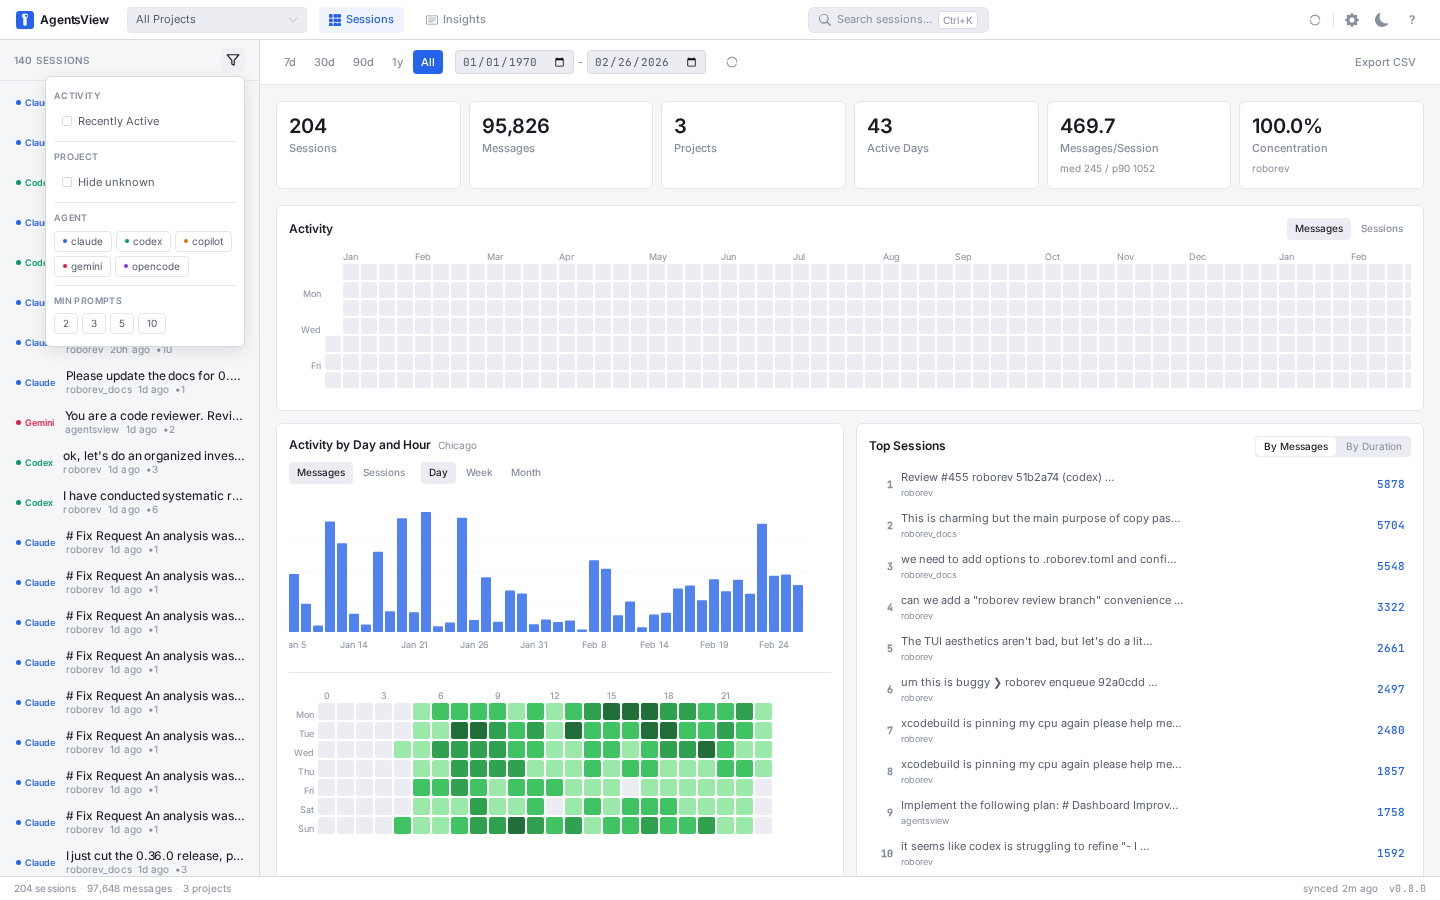
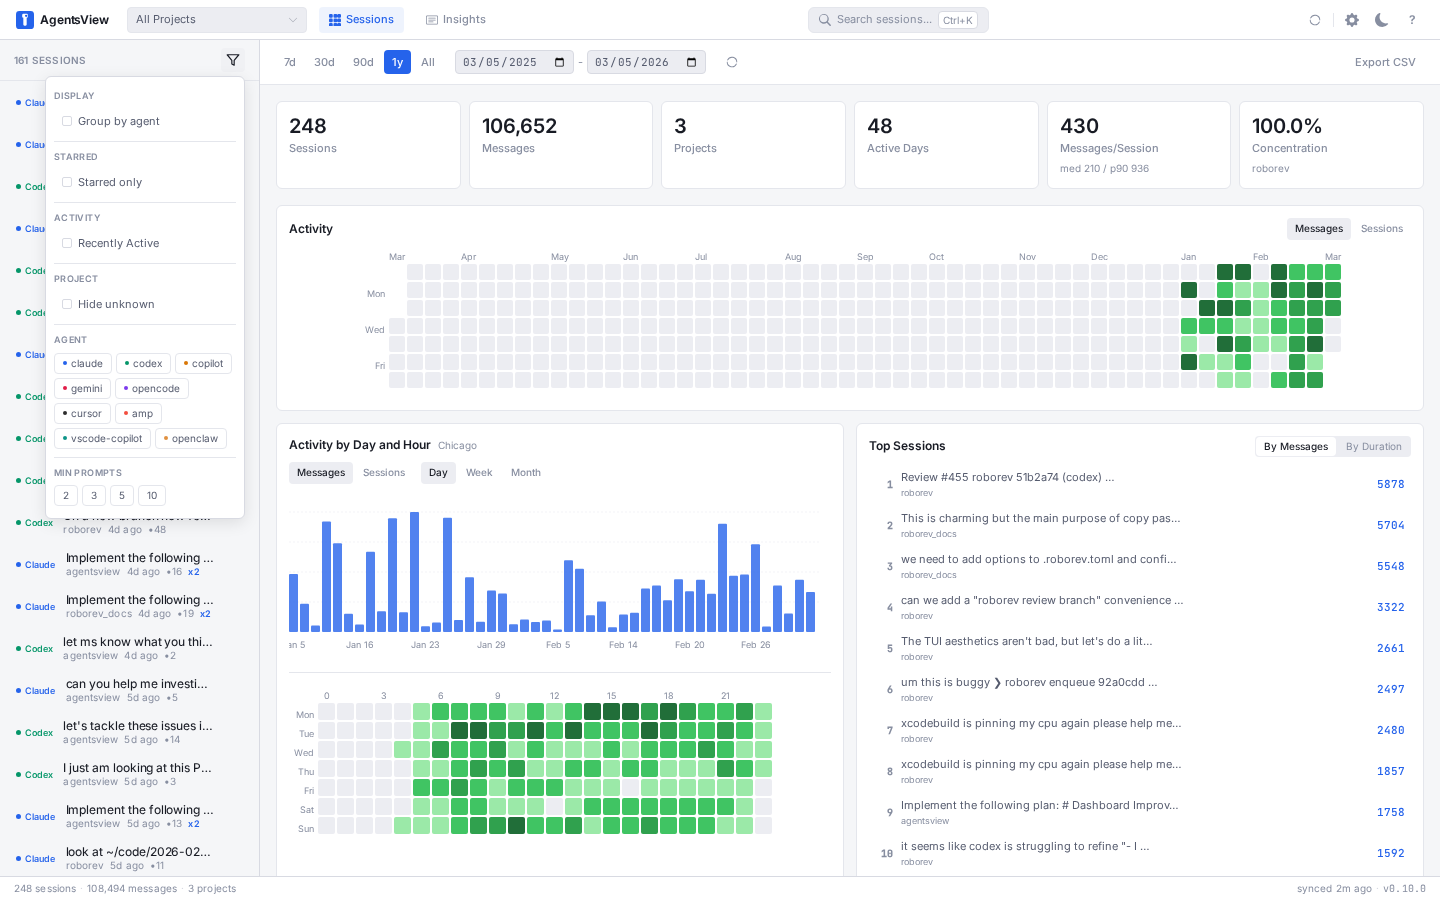
Document 0.10.0: new agents, starring, layouts, block filters (#10)
## Summary

- Add 0.10.0 changelog entry covering 8 new features, 4 improvements,
and 2 bug fixes
- Document Amp, VS Code Copilot, and OpenClaw agent support across all
docs pages (index, quickstart, usage, configuration, commands)
- Document new UI features: session starring, switchable message layouts
(Default/Compact/Stream), collapsible sidebar agent grouping, block-type
filtering, message copy button, inline subagent transcript viewing
- Update keyboard shortcuts table (`l` for layout, `s` for star; remove
`t` for thinking toggle)
- Add `result_content_blocked_categories` config option and
non-destructive resync documentation
- Add placeholder SVG logos for the 3 new agents
- Regenerate all 30 existing screenshots with the 0.10.0 UI
- Add 5 new Playwright screenshot tests (starred session, compact
layout, stream layout, block filter dropdown, copy button)

## Notes

- Tauri desktop app is mentioned in changelog as "in development, not
yet released" — no separate docs page
- Agent logo SVGs are text-based placeholders — replace with proper
brand logos before publishing
- The `group-by-agent` screenshot test passed but didn't capture (button
selector may need adjusting for the actual UI class)

## Test plan

- [ ] Verify docs build cleanly (`npm run build`)
- [ ] Review new screenshots for visual accuracy
- [ ] Check all internal links resolve
- [ ] Verify new agent paths match source code defaults
- [ ] Review changelog entry against actual release notes
[…]

diff --git a/screenshots/tests/screenshots.spec.ts b/screenshots/tests/screenshots.spec.ts
@@ -301,12 +301,13 @@ test.describe('Session browser', () => {
       await filterBtn.click();
       await page.waitForTimeout(300);
 
-      // Enable the "Recently Active" toggle
-      const toggle = page.getByRole('button', {
-        name: 'Recently Active',
+      // Select "Min Prompts 10" filter
+      const minPrompts = page.getByRole('button', {
+        name: '10',
+        exact: true,
       });
-      if (await toggle.count() > 0) {
-        await toggle.click();
+      if (await minPrompts.count() > 0) {
+        await minPrompts.click();
         await page.waitForTimeout(300);
       }
 
@@ -324,6 +325,47 @@ test.describe('Session browser', () => {
       // Clean up
       const clear = page.locator('button.clear-filters-btn');
       if (await clear.count() > 0) await clear.click();
+    }
+  });
+
+  test('starred session', async ({ page }) => {
+    // Star the first session using 's' key
+    await selectFirstSession(page);
+    await page.keyboard.press('s');
+    await page.waitForTimeout(500);
+
+    const sidebar = page.locator('.sidebar');
+    if (await sidebar.count() > 0) {
+      await snapEl(sidebar, 'starred-session');
+    }
+
+    // Unstar to clean up
+    await page.keyboard.press('s');
+  });
+
+  test('group by agent', async ({ page }) => {
+    // Find and click the group-by-agent toggle
+    const groupBtn = page.locator(
+      'button[title*="group"], button[title*="Group"]'
+    );
+    if (await groupBtn.count() > 0) {
+      await groupBtn.click();
+      await page.waitForTimeout(500);
+
+      // Expand the first group
+      const groupHeader = page.locator(
+        '.agent-group-header'
+      ).first();
+      if (await groupHeader.count() > 0) {
+        await groupHeader.click();
+        await page.waitForTimeout(300);
+      }
+
+      const sidebar = page.locator('.sidebar');
+      await snapEl(sidebar, 'group-by-agent');
+
+      // Toggle off to clean up
+      await groupBtn.click();
     }
   });
 });
@@ -414,6 +456,78 @@ test.describe('Message viewer', () => {
           await snapEl(tg, 'tool-groups');
           break;
         }
+      }
+    }
+  });
+
+  test('compact layout', async ({ page }) => {
+    await selectRichSession(page);
+
+    // Press 'l' to cycle to compact layout
+    await page.keyboard.press('l');
+    await page.waitForTimeout(500);
+
+    // Verify we're in compact layout
+    const list = page.locator('.layout-compact');
+    if (await list.count() > 0) {
+      await snap(page, 'layout-compact');
+    }
+
+    // Cycle back to default
+    await page.keyboard.press('l');
+    await page.keyboard.press('l');
+  });
+
+  test('stream layout', async ({ page }) => {
+    await selectRichSession(page);
+
+    // Press 'l' twice to reach stream layout
+    await page.keyboard.press('l');
+    await page.keyboard.press('l');
+    await page.waitForTimeout(500);
+
+    const list = page.locator('.layout-stream');
+    if (await list.count() > 0) {
+      await snap(page, 'layout-stream');
+    }
+
+    // Cycle back to default
+    await page.keyboard.press('l');
+  });
+
+  test('block-type filter dropdown', async ({ page }) => {
+    await selectRichSession(page);
+
+    // Click the block-type filter button
+    const filterBtn = page.locator(
+      'button[title="Filter block types"]'
+    );
+    if (await filterBtn.count() > 0) {
+      await filterBtn.click();
+      await page.waitForTimeout(300);
+
+      const dropdown = page.locator('.block-filter-dropdown');
+      if (await dropdown.count() > 0) {
+        await snapEl(dropdown, 'block-filter');
+      }
+
+      // Close by clicking elsewhere
+      await page.keyboard.press('Escape');
+    }
+  });
+
+  test('copy button on message', async ({ page }) => {
+    await selectRichSession(page);
+
+    // Hover over a message to reveal the copy button
+    const message = page.locator('.message').first();
+    if (await message.count() > 0) {
+      await message.hover();
+      await page.waitForTimeout(300);
+
+      const copyBtn = message.locator('.copy-btn');
+      if (await copyBtn.count() > 0) {
+        await snapEl(message, 'message-copy-btn');
       }
     }
   });

diff --git a/screenshots/README.md b/screenshots/README.md
@@ -1,0 +1,47 @@
+# Screenshot Pipeline
+
+Generates screenshots for the docs site using Playwright inside Docker.
+
+## Prerequisites
+
+- Docker
+- agentsview source at `~/code/agentsview` (override with `AGENTSVIEW_SRC`)
+- A sessions database at `~/.agentsview/sessions.db` (override with `SOURCE_DB`)
+
+## Run all screenshots
+
+```bash
+./screenshots/run.sh
+```
+
+Output goes to `public/screenshots/`.
+
+## Run a single screenshot
+
+Pass `--grep` with the test name:
+
+```bash
+./screenshots/run.sh --grep "session filters active"
+```
+
+Any extra arguments are forwarded to `npx playwright test` inside the container.
+
+## How it works
+
+1. Assembles a Docker build context with the agentsview source, sessions database, and test files
+2. Builds a multi-stage Docker image:
+   - **Stage 1 (builder):** Compiles the agentsview Go binary with frontend assets
+   - **Stage 2 (db):** Extracts a test database with only open-source projects
+   - **Stage 3 (playwright):** Installs Playwright + Chromium, copies binary and DB
+3. Runs the container, which starts agentsview on port 8090, prunes one-shot sessions, and executes the Playwright tests
+4. Screenshots are written to the mounted `/output` volume (`public/screenshots/`)
+
+Stages 1 and 2 are cached by Docker, so re-runs after test file changes are fast.
+
+## Configuration
+
+Viewport: 1440x900, dark mode, `America/Chicago` timezone. See `playwright.config.ts`.
+
+## Test file
+
+All tests live in `tests/screenshots.spec.ts`. Each test navigates to a UI state and calls `snap(page, 'name')` or `snapEl(locator, 'name')` to capture a PNG.
